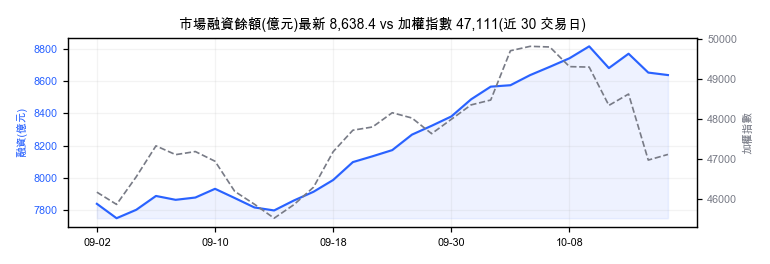
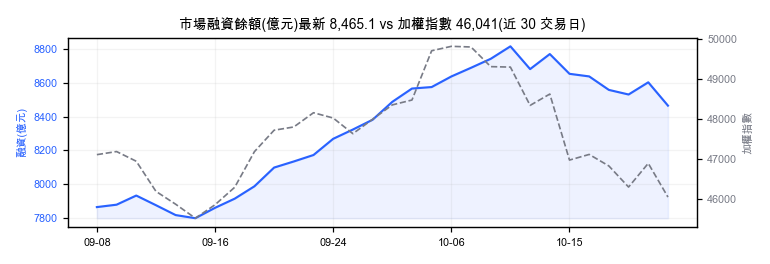
weekly 2026-10-24 情緒週報更新

diff --git a/docs/weekly_2026-10-24.html b/docs/weekly_2026-10-24.html
@@ -1,0 +1,56 @@
+<!DOCTYPE html>
+<html lang="zh-Hant">
+<head>
+  <meta charset="UTF-8">
+  <meta name="viewport" content="width=device-width, initial-scale=1.0">
+  <title>週報 2026-10-24 — 情緒面 + 籌碼</title>
+  <script>try{document.documentElement.dataset.theme=localStorage.getItem('theme')||'dark';}catch(e){document.documentElement.dataset.theme='dark';}</script>
+  <link rel="stylesheet" href="assets/tokens.css?v=b28a42eb">
+  <link rel="stylesheet" href="assets/style_v2.css?v=b28a42eb">
+  <script src="assets/theme.js?v=b28a42eb" defer></script>
+</head>
+<body>
+<header class="page-header">
+  <div class="container">
+    <nav class="page-nav">
+      <a href="index.html">← 回首頁</a>
+      <a href="index_v2.html">📈 儀表板</a>
+      <a href="watchlist_v2.html">📋 Watchlist</a>
+      <a href="tags.html">🔥 主題熱度</a>
+      <span class="page-nav-current">📅 週報</span>
+      <a href="macro_dashboard.html">🌐 宏觀</a>
+    </nav>
+    <h1>📅 每週市場情緒週報</h1>
+    <div class="meta">資料日期 <strong>2026-10-24</strong> ｜ 情緒面 NAAIM + VIX（AAII 已停用）｜ 產出時間 2026-10-24 09:00</div>
+  </div>
+</header>
+<main class="container wk-narrow">
+<div class="wk-errors">⚠ 部分數據源失敗:naaim: NAAIM 頁找不到 USE_Data xlsx 連結(頁面可能改版)</div>
+  <section class="section">
+    <h2>🚨 本週警報</h2>
+    <ul class="wk-alerts"><li class="wk-noalert">本週無極端訊號</li></ul>
+  </section>
+  <section class="section">
+    <h2>😱 情緒面</h2>
+    <div class="wk-cards"><div class="wk-card"><div class="wk-card-label">NAAIM 機構曝險</div><div class="wk-card-val" style="">N/A</div><div class="wk-card-sub">最新 </div></div><div class="wk-card"><div class="wk-card-label">VIX 波動率</div><div class="wk-card-val" style="">19.45</div><div class="wk-card-sub">恐慌指標(替代恐慌貪婪)</div></div></div>
+    
+  </section>
+  <section class="section">
+    <h2>🛒 消費信心(XLY/XLP)</h2>
+    <div class="wk-cards"><div class="wk-card"><div class="wk-card-label">XLY/XLP 比值</div><div class="wk-card-val" style="">1.278</div><div class="wk-card-sub">偏空</div></div></div>
+    <img class="wk-chart" src="assets/weekly/xly_xlp.png" alt="XLY/XLP 比值">
+  </section>
+  <section class="section">
+    <h2>💰 週融資 + 大盤回顧</h2>
+    <div class="wk-cards"><div class="wk-card"><div class="wk-card-label">市場融資餘額(億元)</div><div class="wk-card-val" style="color:var(--color-down)">8,465.1</div><div class="wk-card-sub">週增減 -2.18%</div></div><div class="wk-card"><div class="wk-card-label">加權指數(週)</div><div class="wk-card-val" style="color:var(--color-down)">46,041.43</div><div class="wk-card-sub">本週 -1.98%</div></div></div>
+    <img class="wk-chart" src="assets/weekly/margin.png" alt="市場融資餘額趨勢(億元)">
+  </section>
+  <section class="section">
+    <h2>🏛 機構訊號區</h2>
+    <h3>💳 信用與流動性</h3><figure class="wk-sig"><img class="wk-chart" src="assets/weekly/sig_hy_oas.png" alt="HY OAS 高收益債利差"><figcaption class="wk-src">來源:FRED BAMLH0A0HYM2(ICE BofA US High Yield OAS)</figcaption></figure><figure class="wk-sig"><img class="wk-chart" src="assets/weekly/sig_t10y2y.png" alt="2s10s 利差"><figcaption class="wk-src">來源:FRED T10Y2Y(10 年期減 2 年期公債利差)</figcaption></figure><h3>🧭 市場內部</h3><figure class="wk-sig"><img class="wk-chart" src="assets/weekly/sig_breadth.png" alt="台股寬度"><figcaption class="wk-src">來源:kline.db 自算(watchlist 台股 106 檔)</figcaption></figure><figure class="wk-sig"><img class="wk-chart" src="assets/weekly/sig_foreign_oi.png" alt="外資台指期淨 OI vs 加權指數"><figcaption class="wk-src">來源:期交所三大法人期貨未平倉(外資)+ TWSE FMTQIK</figcaption></figure><h3>😱 情緒</h3><figure class="wk-sig"><img class="wk-chart" src="assets/weekly/sig_vix_ratio.png" alt="VIX/VIX3M 比值"><figcaption class="wk-src">來源:CBOE VIX / VIX3M(yfinance)</figcaption></figure><h3>🏭 景氣</h3><figure class="wk-sig"><img class="wk-chart" src="assets/weekly/sig_sahm.png" alt="Sahm Rule"><figcaption class="wk-src">來源:FRED SAHMREALTIME(Sahm Rule 即時失業率指標)</figcaption></figure><figure class="wk-sig"><img class="wk-chart" src="assets/weekly/sig_light.png" alt="景氣對策信號"><figcaption class="wk-src">來源:國發會景氣對策信號</figcaption></figure>
+  </section>
+
+  <p class="wk-src">NAAIM 來源:官方 USE_Data since Inception(? 週全量);US 指數/VIX/ETF:yfinance;融資:證交所 OpenAPI。</p>
+</main>
+</body>
+</html>

diff --git a/docs/weekly.html b/docs/weekly.html
@@ -3,7 +3,7 @@
 <head>
   <meta charset="UTF-8">
   <meta name="viewport" content="width=device-width, initial-scale=1.0">
-  <title>週報 2026-10-17 — 情緒面 + 籌碼</title>
+  <title>週報 2026-10-24 — 情緒面 + 籌碼</title>
   <script>try{document.documentElement.dataset.theme=localStorage.getItem('theme')||'dark';}catch(e){document.documentElement.dataset.theme='dark';}</script>
   <link rel="stylesheet" href="assets/tokens.css?v=b28a42eb">
   <link rel="stylesheet" href="assets/style_v2.css?v=b28a42eb">
@@ -21,7 +21,7 @@
       <a href="macro_dashboard.html">🌐 宏觀</a>
     </nav>
     <h1>📅 每週市場情緒週報</h1>
-    <div class="meta">資料日期 <strong>2026-10-17</strong> ｜ 情緒面 NAAIM + VIX（AAII 已停用）｜ 產出時間 2026-10-17 09:00</div>
+    <div class="meta">資料日期 <strong>2026-10-24</strong> ｜ 情緒面 NAAIM + VIX（AAII 已停用）｜ 產出時間 2026-10-24 09:00</div>
   </div>
 </header>
 <main class="container wk-narrow">
@@ -32,17 +32,17 @@
   </section>
   <section class="section">
     <h2>😱 情緒面</h2>
-    <div class="wk-cards"><div class="wk-card"><div class="wk-card-label">NAAIM 機構曝險</div><div class="wk-card-val" style="">N/A</div><div class="wk-card-sub">最新 </div></div><div class="wk-card"><div class="wk-card-label">VIX 波動率</div><div class="wk-card-val" style="">19.99</div><div class="wk-card-sub">恐慌指標(替代恐慌貪婪)</div></div></div>
+    <div class="wk-cards"><div class="wk-card"><div class="wk-card-label">NAAIM 機構曝險</div><div class="wk-card-val" style="">N/A</div><div class="wk-card-sub">最新 </div></div><div class="wk-card"><div class="wk-card-label">VIX 波動率</div><div class="wk-card-val" style="">19.45</div><div class="wk-card-sub">恐慌指標(替代恐慌貪婪)</div></div></div>
     
   </section>
   <section class="section">
     <h2>🛒 消費信心(XLY/XLP)</h2>
-    <div class="wk-cards"><div class="wk-card"><div class="wk-card-label">XLY/XLP 比值</div><div class="wk-card-val" style="">1.3084</div><div class="wk-card-sub">偏空</div></div></div>
+    <div class="wk-cards"><div class="wk-card"><div class="wk-card-label">XLY/XLP 比值</div><div class="wk-card-val" style="">1.278</div><div class="wk-card-sub">偏空</div></div></div>
     <img class="wk-chart" src="assets/weekly/xly_xlp.png" alt="XLY/XLP 比值">
   </section>
   <section class="section">
     <h2>💰 週融資 + 大盤回顧</h2>
-    <div class="wk-cards"><div class="wk-card"><div class="wk-card-label">市場融資餘額(億元)</div><div class="wk-card-val" style="color:var(--color-down)">8,638.4</div><div class="wk-card-sub">週增減 -1.19%</div></div><div class="wk-card"><div class="wk-card-label">加權指數(週)</div><div class="wk-card-val" style="color:var(--color-down)">46,969.87</div><div class="wk-card-sub">本週 -5.70%</div></div></div>
+    <div class="wk-cards"><div class="wk-card"><div class="wk-card-label">市場融資餘額(億元)</div><div class="wk-card-val" style="color:var(--color-down)">8,465.1</div><div class="wk-card-sub">週增減 -2.18%</div></div><div class="wk-card"><div class="wk-card-label">加權指數(週)</div><div class="wk-card-val" style="color:var(--color-down)">46,041.43</div><div class="wk-card-sub">本週 -1.98%</div></div></div>
     <img class="wk-chart" src="assets/weekly/margin.png" alt="市場融資餘額趨勢(億元)">
   </section>
   <section class="section">
